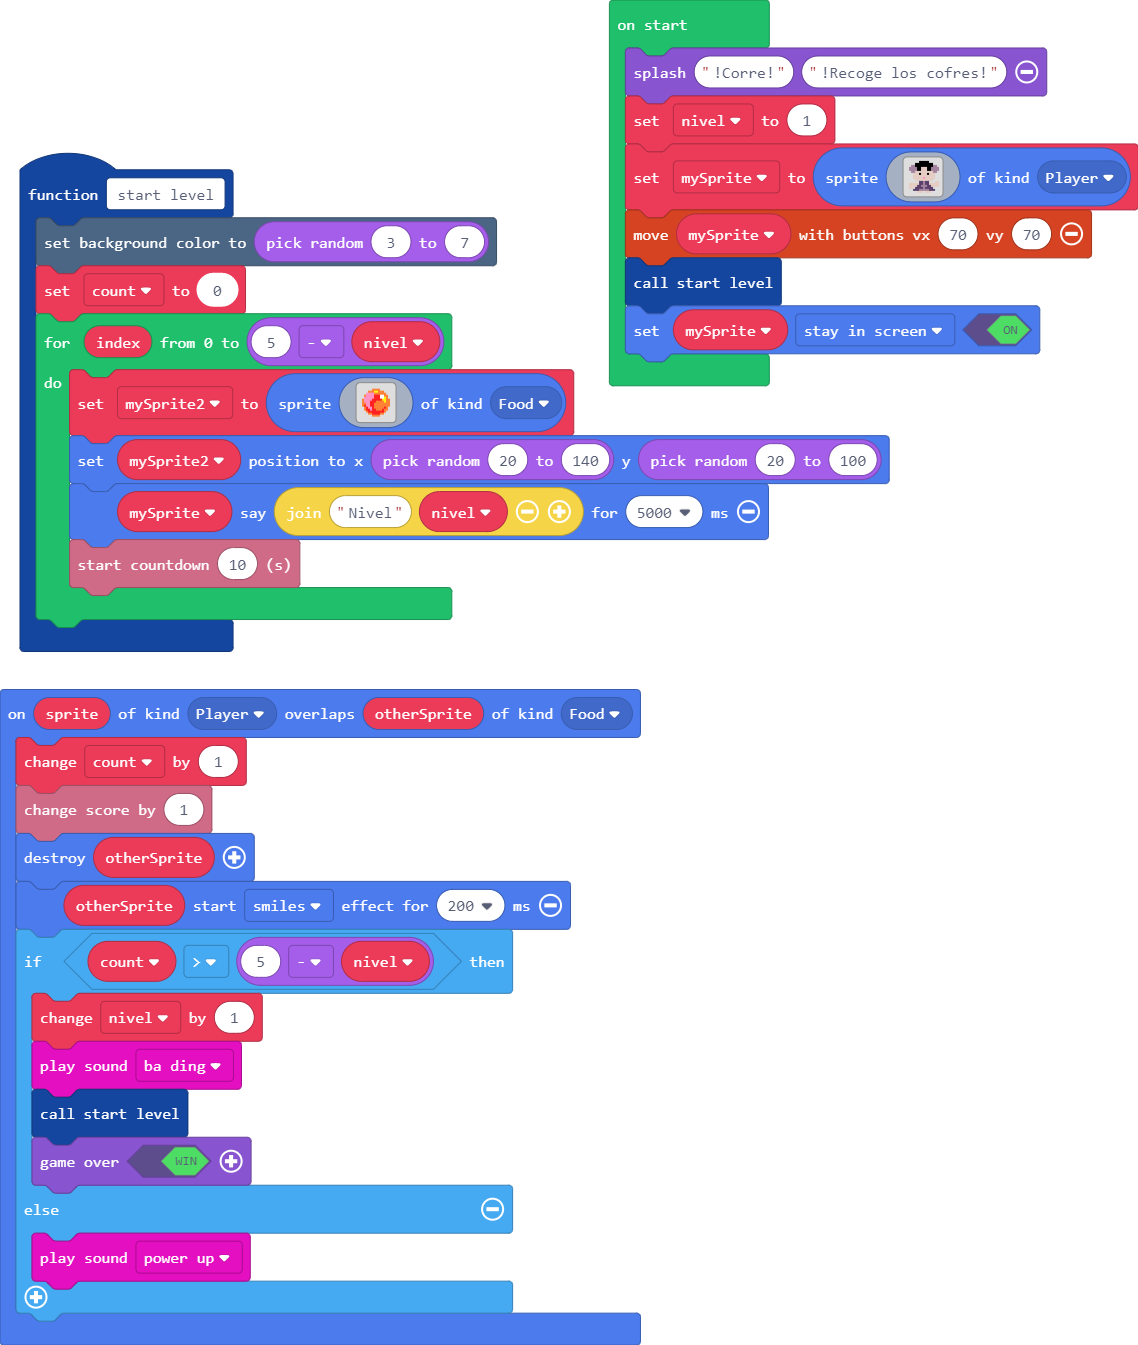
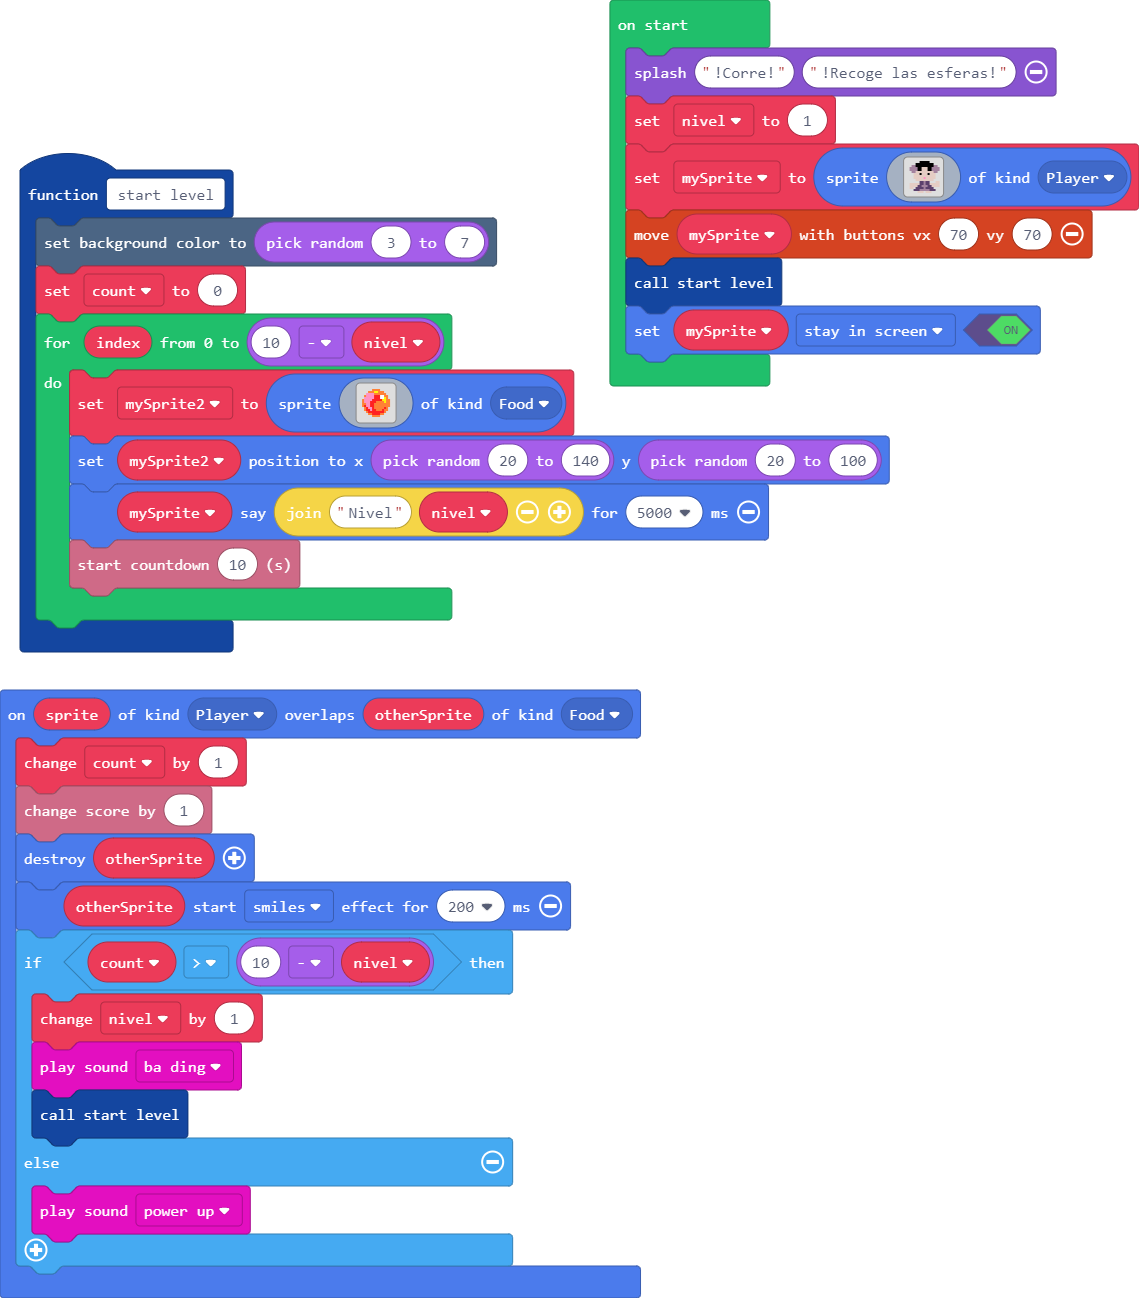
Update main.blocks, main.ts

Changed region(s): [[0.0, 0.0308, 1.0, 0.9861], [0.5228, 0.0, 0.5536, 0.0308]]

diff --git a/main.ts b/main.ts
@@ -1,7 +1,7 @@
 function start_level () {
     scene.setBackgroundColor(Math.randomRange(3, 7))
     count = 0
-    for (let index = 0; index <= 5 - nivel; index++) {
+    for (let index = 0; index <= 10 - nivel; index++) {
         mySprite2 = sprites.create(img`
 . . . . . . . . . . . . . . . . 
 . . . . . . 4 4 4 4 . . . . . . 
@@ -30,11 +30,10 @@ sprites.onOverlap(SpriteKind.Player, SpriteKind.Food, function (sprite, otherSpr
     info.changeScoreBy(1)
     otherSprite.destroy()
     otherSprite.startEffect(effects.smiles, 200)
-    if (count > 5 - nivel) {
+    if (count > 10 - nivel) {
         nivel += 1
         music.baDing.play()
         start_level()
-        game.over(true)
     } else {
         music.powerUp.play()
     }
@@ -43,7 +42,7 @@ let mySprite2: Sprite = null
 let count = 0
 let mySprite: Sprite = null
 let nivel = 0
-game.splash("!Corre!", "!Recoge los cofres!")
+game.splash("!Corre!", "!Recoge las esferas!")
 nivel = 1
 mySprite = sprites.create(img`
 . . . . . . f f f f f . . . . . 
